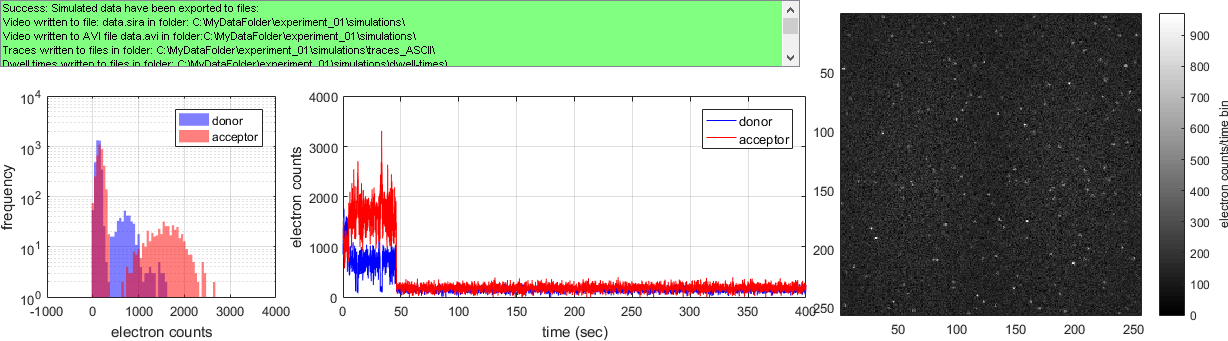
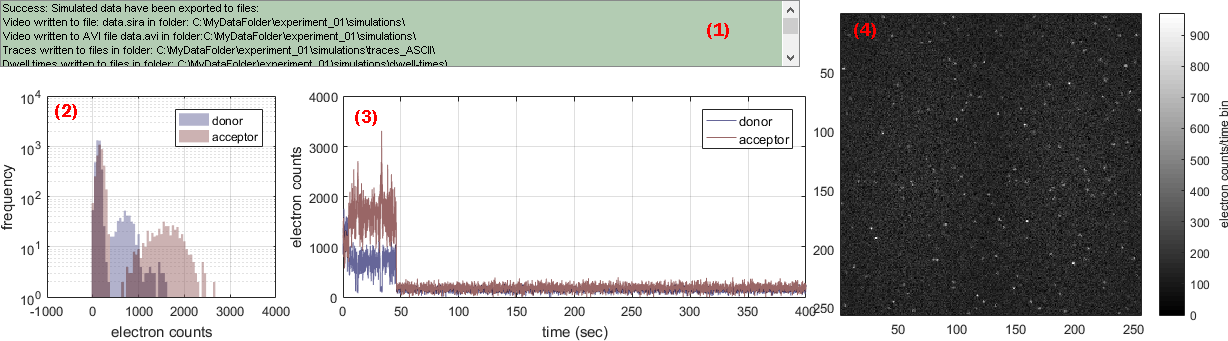
Update simulation visualization area

diff --git a/docs/simulation/panels/area-visualization.md b/docs/simulation/panels/area-visualization.md
@@ -9,14 +9,30 @@ nav_order: 1
 # Visualization area
 {: .no_toc }
 
-## Panel components
-{: .no_toc .text-delta }
+<a href="../../assets/images/sim-area-visualization.png"><img src="../../assets/images/sim-area-visualization.png" /></a>
 
-1. TOC
-{:toc}
+## (1) Control panel 
 
-## Intensity histograms
+Display action logs. The list is automatically saved in a 
+[daily log file](../../output-files/log-daily-logs.html).
 
-## Intensity-time traces
+## (2) Intensity histograms
 
-## Single molecules image
+Donor (blue) and acceptor (red) intensity distributions in simulated intensity-time traces of molecule n:°1. 
+
+Intensity units are set in 
+[Exported intensity units](panel-export-options.html#exported-intensity-units).
+
+## (3) Simulated intensity-time traces
+
+Simulated donor (blue) and acceptor (red) intensity-time traces for molecule n:°1. 
+
+Intensity units are set in 
+[Exported intensity units](panel-export-options.html#exported-intensity-units).
+
+## (4) Simulated video
+
+First frame of the simulated single molecule video. 
+
+The color scale for pixel values is indicated by the color bar. Pixel intensity units are set in 
+[Exported intensity units](panel-export-options.html#exported-intensity-units).
